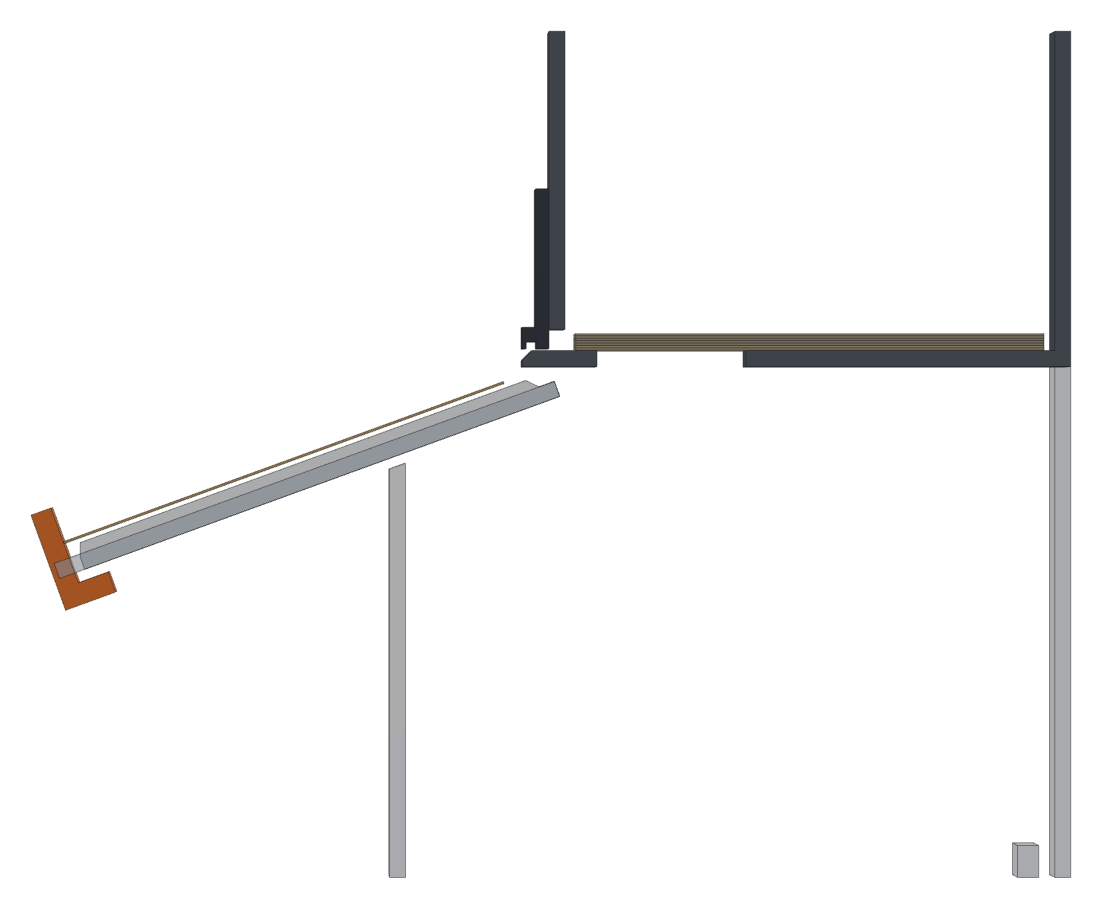
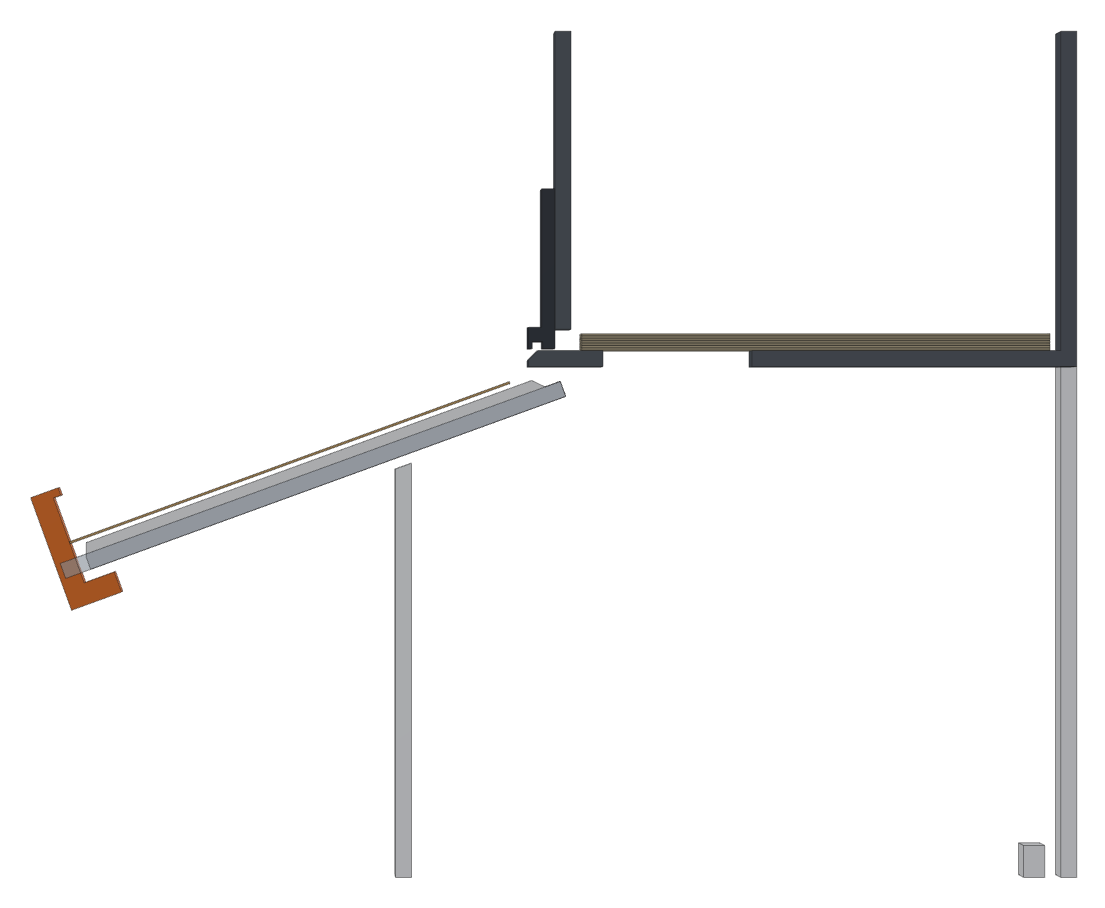
Stop bar v3.2: 13.5 mm tall with a 1.5 mm lip (1 card in 4 hopped the 10 mm bar); needs pins down about 165
CAD: clear of the plate from -6 to 44 degrees, of the tray at 22/25 degree tilts and with the doors open up
to 40 degrees, and of the sliding card from 32 degrees (old teeth: 25 degrees = Nic's 155).

Claude-Session: https://claude.ai/code/session_0128qTvgTx5kJf2oaWgC9aJJ

Changed region(s): [[0.0309, 0.0308, 0.5259, 0.9559]]

diff --git a/mtg-sorter/hardware/SCAN_BED_V3.md b/mtg-sorter/hardware/SCAN_BED_V3.md
@@ -6,7 +6,7 @@ Print file: `bambu/MTG_Sorter_Scan_Bed_v3.3mf` (File > Open Project; answer **No
 |---|---|---|---|
 | 1 | `bed_plate3`, the scan bed (v3.1) | **white** | slippery-smooth settings set in the file (below), no supports, flat side down |
 | 2 | `weight_solid`, the hopper weight | any | 100 % infill (set in the file), about 95 g |
-| 3 | `stop_gate3`, one flat stop bar instead of the four teeth | black | same screws, horn, bearing and angles as the old stop gate. Reprint it for v3.1: it is 2 mm taller |
+| 3 | `stop_gate3`, one flat stop bar with a lip, instead of the four teeth | black | same screws, horn and bearing as the old stop gate. **Pins down goes from 155 to about 165** (below) |
 
 Also needed: **1/4" (6 mm) PTFE (Teflon) tape**, about 40 cm (the self-adhesive kind sold for heat
 sealers and 3D printer beds).
@@ -38,8 +38,10 @@ print (24°) still stopped cards: at the entrance, and anywhere on the slope.
   back in.
 - **One stop bar instead of four teeth**, 51.6 mm wide, coming up through one chamfered opening, so the
   card's edge sits square and nothing pokes up between gaps. A wider bar would hit the tray's edge
-  when it tilts with the stop down. It is 10 mm tall (7.2 mm above the lands, as the teeth were above
-  the old bed).
+  when it tilts with the stop down. On the printed v3, 1 card in 4 hopped the bar, so it is now 13.5 mm
+  tall (10.7 mm above the lands; the old teeth stood 8) with a 1.5 mm lip along its top on the card's
+  side, which catches a card that climbs the face. Being taller, it has to turn further to get out of
+  the card's way: about 32° instead of 25°, so **Pins down about 165** instead of 155 (up stays 130).
 - **Marker pockets for the camera.** Four 5 mm square pockets, 0.4 mm deep, beside the walls, for
   printed ArUco stickers (OpenCV DICT_4X4_50, ids 0-3), so the app can straighten the picture
   exactly. They are in the card's plane (0.8 mm under its face). Centres, in mm, measured along the
@@ -61,14 +63,17 @@ print (24°) still stopped cards: at the entrance, and anywhere on the slope.
 4. Slide the new plate in from the front, lands up, the edge with the opening at the front, until
    its front edge lines up with the front of the side walls. Don't force it further: the top end
    only has 2.4 mm under the hopper floor.
-5. Pins up: the stop comes up through the opening. No servo angle changes (130 up / 155 down).
+5. On the Machine page set **Pins down to 165** (up stays 130) and Save. Pins up: the bar comes up
+   through the opening. Pins down: on the camera, check that the bar's top goes fully below the
+   lands. If it doesn't, try 168. (CAD says it clears from about 162; the tray is clear up to 170.)
 6. On the Machine page, feed one card and check it lands at the stop. The camera stays where it was
    relative to the bed, so the saved landing zone should still work (the card is 2 mm closer).
 
 Checked in CAD (OpenSCAD intersections, each with a positive control): the plate clears the hopper
 floor by 2 to 3 mm and the feeder gate. The stop bar clears the plate from 6° past up to 44° down,
-the tray at 22° and 25° tilt either way up to 40° down, and is clear under the card from 15° down
-(your 130 / 155 pin angles are about 25° apart).
+and the tray at 22° and 25° tilt either way and with the doors open, up to 40° down. A card can slide
+out over it from 32° down. For scale: the old teeth cleared the card from 25°, which is your 155, so
+servo angle is about 130 + the CAD angle.
 
 ## Slippery-smooth settings (already in the 3MF, plate 1)
 
@@ -89,7 +94,6 @@ spray, wax or lubricant: it rubs off onto the cards.
 
 - **Sleeved cards don't fit** the 65 mm channel (they are 66 to 67 mm). Set `bp3_half` in
   `bed_chute.scad` to 34.5 and re-export if you ever sort sleeved cards.
-- Cards that come in fast because the feeder motor runs long can still ride over the stop.
 - A card held under the feeder gate is a gate problem, not a bed problem.
 - The lands show up in the camera as stripes on the empty bed; the app should compare against the
   empty bed rather than look for an all-white one.
